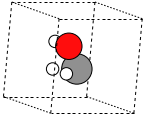
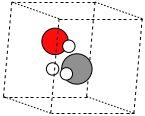
Finished testing initial generation. Found best molecule.

Changed region(s): [[0.2759, 0.2328, 0.5793, 0.5172]]

diff --git a/Geopt/Model/EAs.py b/Geopt/Model/EAs.py
@@ -9,38 +9,51 @@ from ase.io import write
 
 
 def StartEA(elementsList):
+    changeSizes = [10, 50, 150]  # Ranges of random atom movements.
+
+    # Set up and initialise our template molecule to start with.
     boxSize, coordinates, atomObjectList = Molecules.SetUpMolecule(elementsList)
-
     parentMolecule = Atoms(atomObjectList, cell=boxSize)
+    parentMolecule.center()
     parentEnergy = GetEnergy(parentMolecule)
+    bestEnergy = parentEnergy
+    bestMolecule = parentMolecule
+    # Create 3 children from this initial parent using large random ranges for mutation.
+    childrenList = []
+    for i in range(3):
+        permutedCoordinates = random.permutation(coordinates)
+        childCoordinates, childAtomsObject = PrepareChild(elementsList, permutedCoordinates)
+        #MoveAllAtoms(childAtomsObject, changeSizes[2])
+        childMolecule = GenerateChild(childAtomsObject, boxSize)
+        childEnergy = GetEnergy(childMolecule)
+        if childEnergy < bestEnergy:
+            bestEnergy = childEnergy
+            bestMolecule = childMolecule
+        childrenList.append([childMolecule, childCoordinates, childAtomsObject, childEnergy])
 
-    child1Molecule, child1Coordinates, child1AtomsObject = GenerateChild(elementsList, coordinates, boxSize)
-    childEnergy = GetEnergy(child1Molecule)
 
-
-def GenerateChild(elementsList, parentCoordinates, boxSize):
+def PrepareChild(elementsList, parentCoordinates):
     childAtomsObject = []
     childCoordinates = parentCoordinates[:]
     for i in range(len(elementsList)):
         childAtomsObject.append(Atom(elementsList[i], childCoordinates[i]))
+    return childCoordinates, childAtomsObject
+
+
+def GenerateChild(childAtomsObject, boxSize):
     child = Atoms(childAtomsObject, cell=boxSize)
-    child.calc = EMT()
-    return child, childCoordinates, childAtomsObject
+    # Translate atoms to the centre of the unit cell. It's OK if the atoms stick out of their cell.
+    child.center()
+    return child
 
 
 def GetEnergy(molecule):
-    # Translate atoms to the centre of the unit cell.
-    molecule.center()
     # Set up the ase force calculator for finding energies.
     molecule.calc = EMT()
-    # energy in electron volts
     energy = molecule.get_potential_energy()
     return energy
 
 
-def MoveAllAtoms(itsAtoms):
+def MoveAllAtoms(itsAtoms, changeSize):
     for eachAtom in itsAtoms:
-        eachAtom.position += ((random.randint(-50, 50, 3)) / 100)
-
-
-
+        eachAtom.position += ((random.randint(-changeSize, changeSize, 3)) / 100)

diff --git a/Geopt/Tests/EAs.py b/Geopt/Tests/EAs.py
@@ -11,7 +11,9 @@ def StartEA(elementsList):
     boxSize, coordinates, atomObjectList = Molecules.SetUpMolecule(elementsList)
     parentMolecule = Atoms(atomObjectList, cell=boxSize)
     parentMolecule.center()
-
+    parentEnergy = GetEnergy(parentMolecule)
+    bestEnergy = parentEnergy
+    bestMolecule = parentMolecule
     # Create 3 children from this initial parent using large random ranges for mutation.
     childrenList = []
     for i in range(3):
@@ -19,17 +21,19 @@ def StartEA(elementsList):
         childCoordinates, childAtomsObject = PrepareChild(elementsList, permutedCoordinates)
         #MoveAllAtoms(childAtomsObject, changeSizes[2])
         childMolecule = GenerateChild(childAtomsObject, boxSize)
-        childrenList.append([childMolecule, childCoordinates, childAtomsObject])
+        childEnergy = GetEnergy(childMolecule)
+        print("Energy:", childEnergy)
+        if childEnergy < bestEnergy:
+            bestEnergy = childEnergy
+            bestMolecule = childMolecule
+        childrenList.append([childMolecule, childCoordinates, childAtomsObject, childEnergy])
 
-    parentEnergy = GetEnergy(parentMolecule)
-    child1Energy = GetEnergy(childrenList[0][0])
-
+    print("Parent energy: ", parentEnergy)
     print("Parent molecule: ", parentMolecule)
     print("Child 1 molecule: ", childrenList[0][0])
     print("Parent atoms object: ", atomObjectList)
     print("Child 1 atoms object: ", childrenList[0][2])
-    print("Parent energy: ", parentEnergy)
-    print("Child 1 energy: ", child1Energy)
+    print("The best energy is", bestEnergy)
 
     write("C:/Users/pipin/Documents/fyp/SophieCOMP3000/Geopt/Images/parent.png", parentMolecule,
          rotation='10x,30y,0z')
@@ -39,7 +43,6 @@ def StartEA(elementsList):
           rotation='10x,30y,0z')
     write("C:/Users/pipin/Documents/fyp/SophieCOMP3000/Geopt/Images/child3.png", childrenList[2][0],
           rotation='10x,30y,0z')
-
 
 
 def PrepareChild(elementsList, parentCoordinates):
